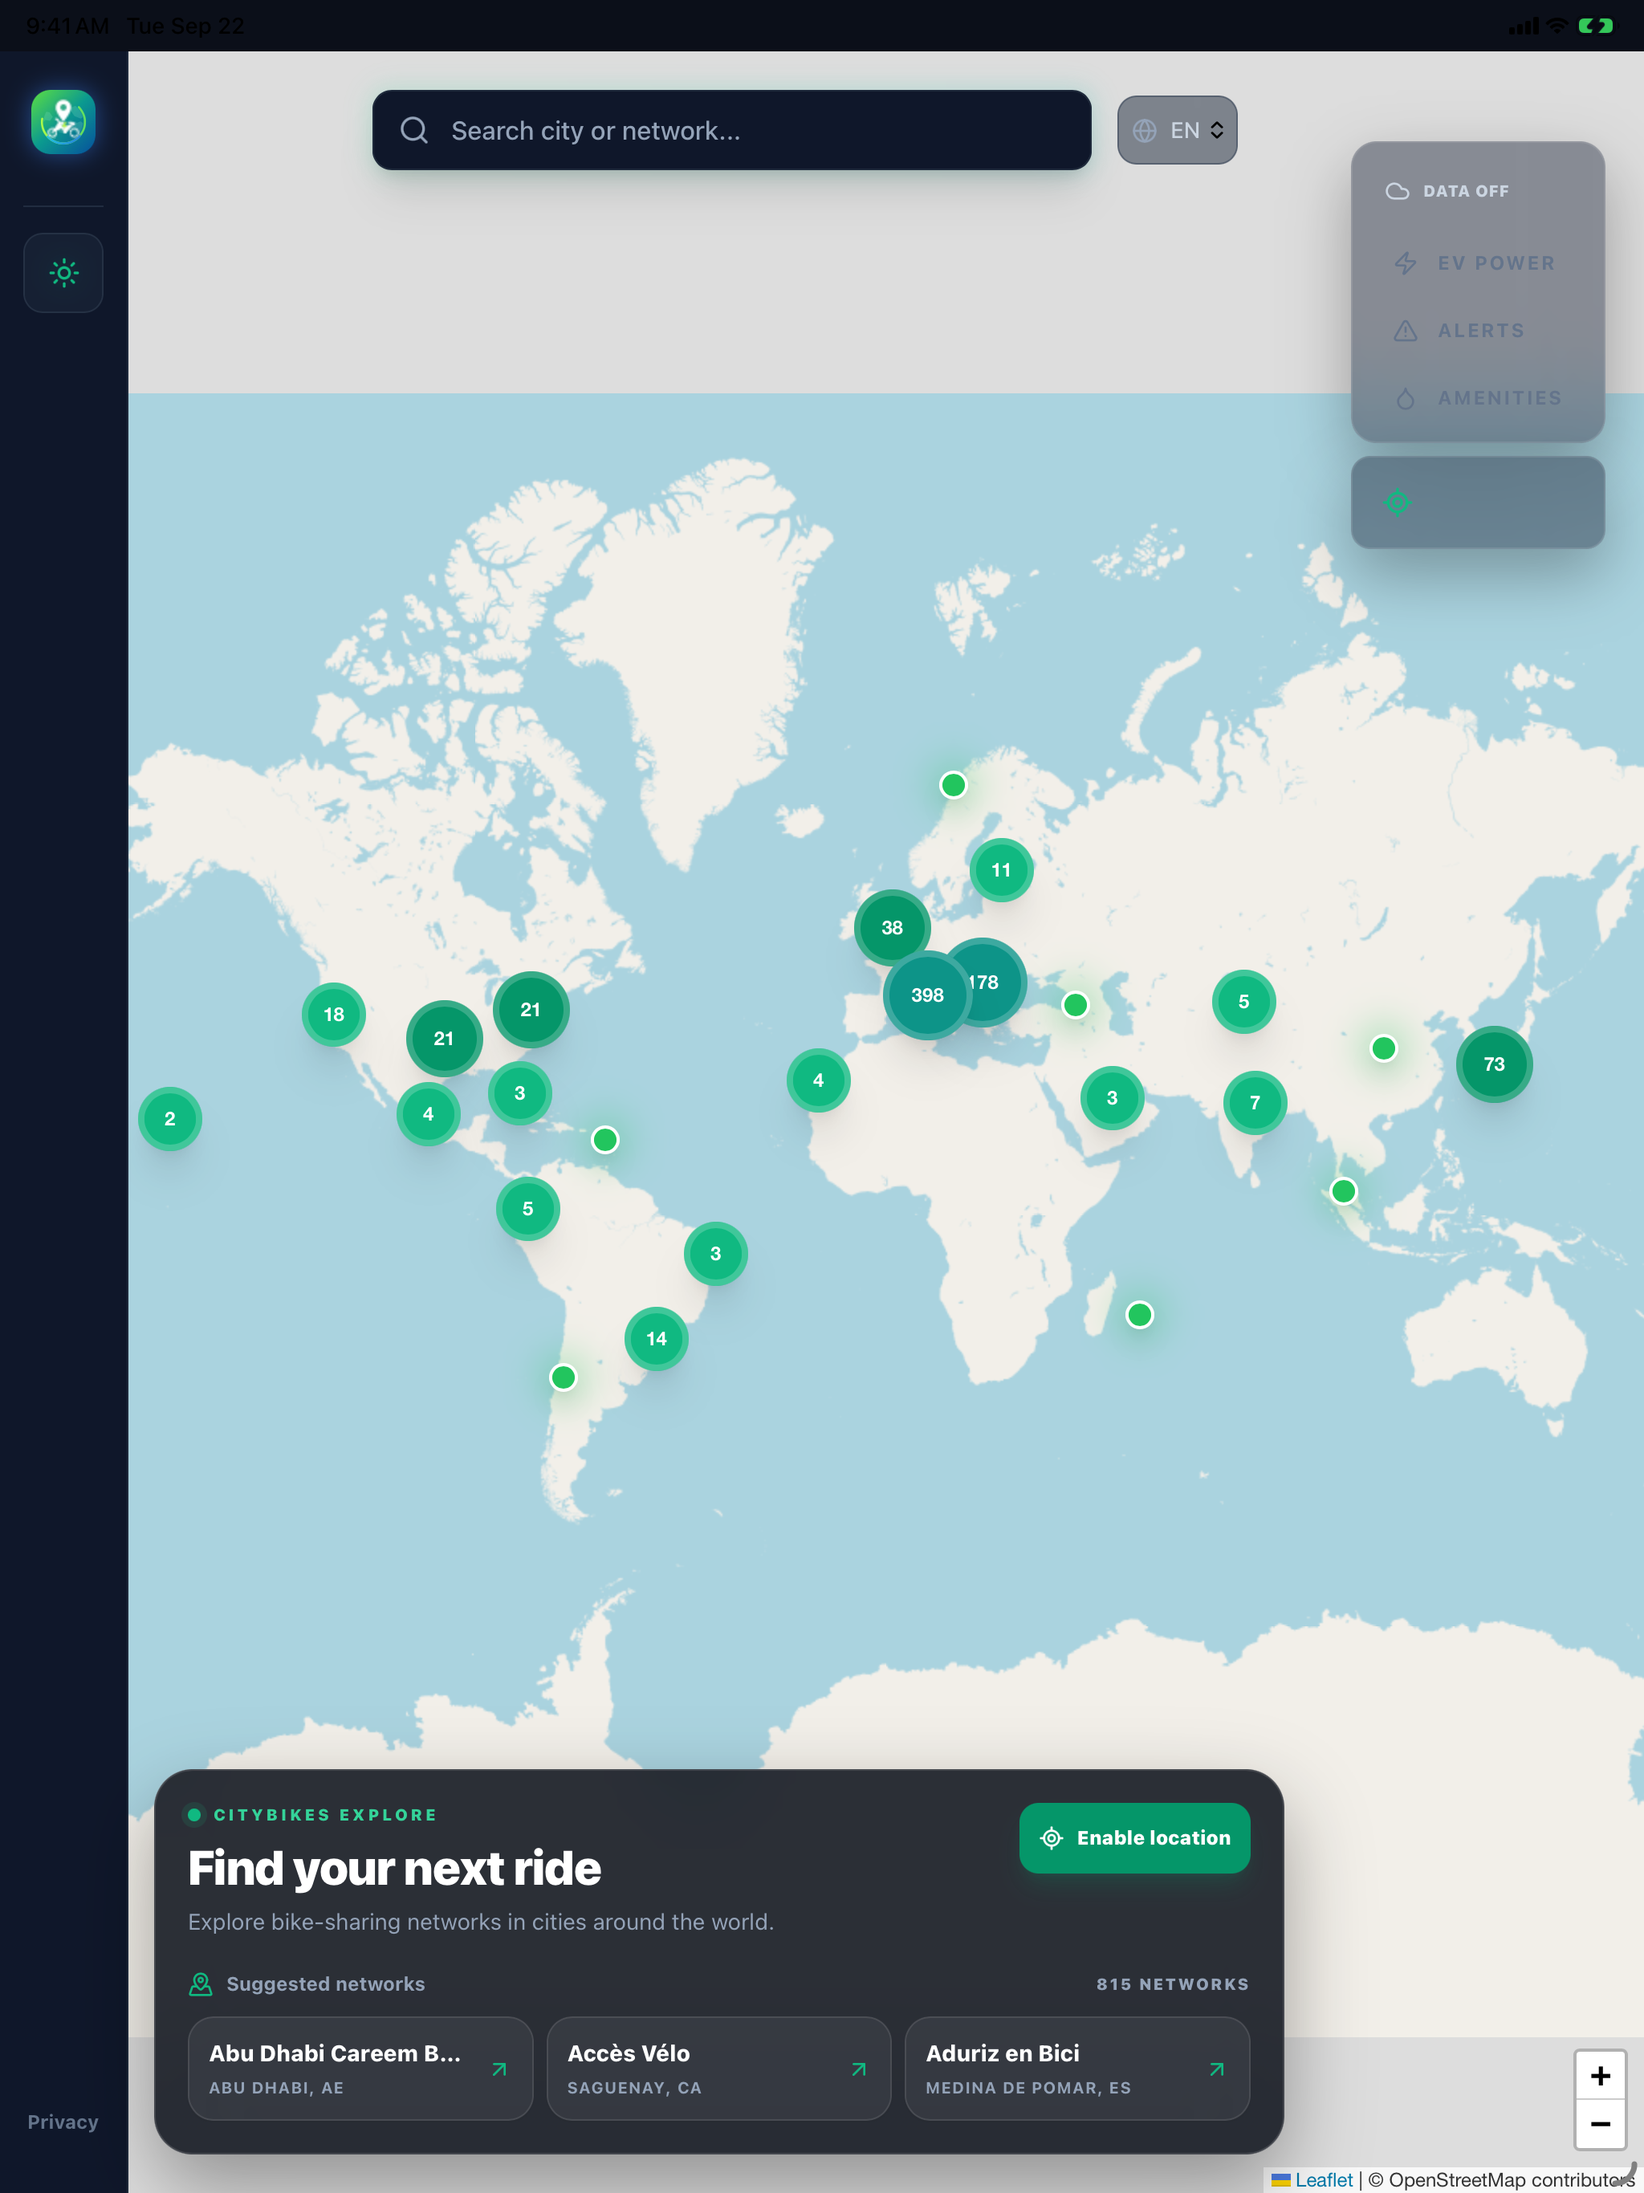
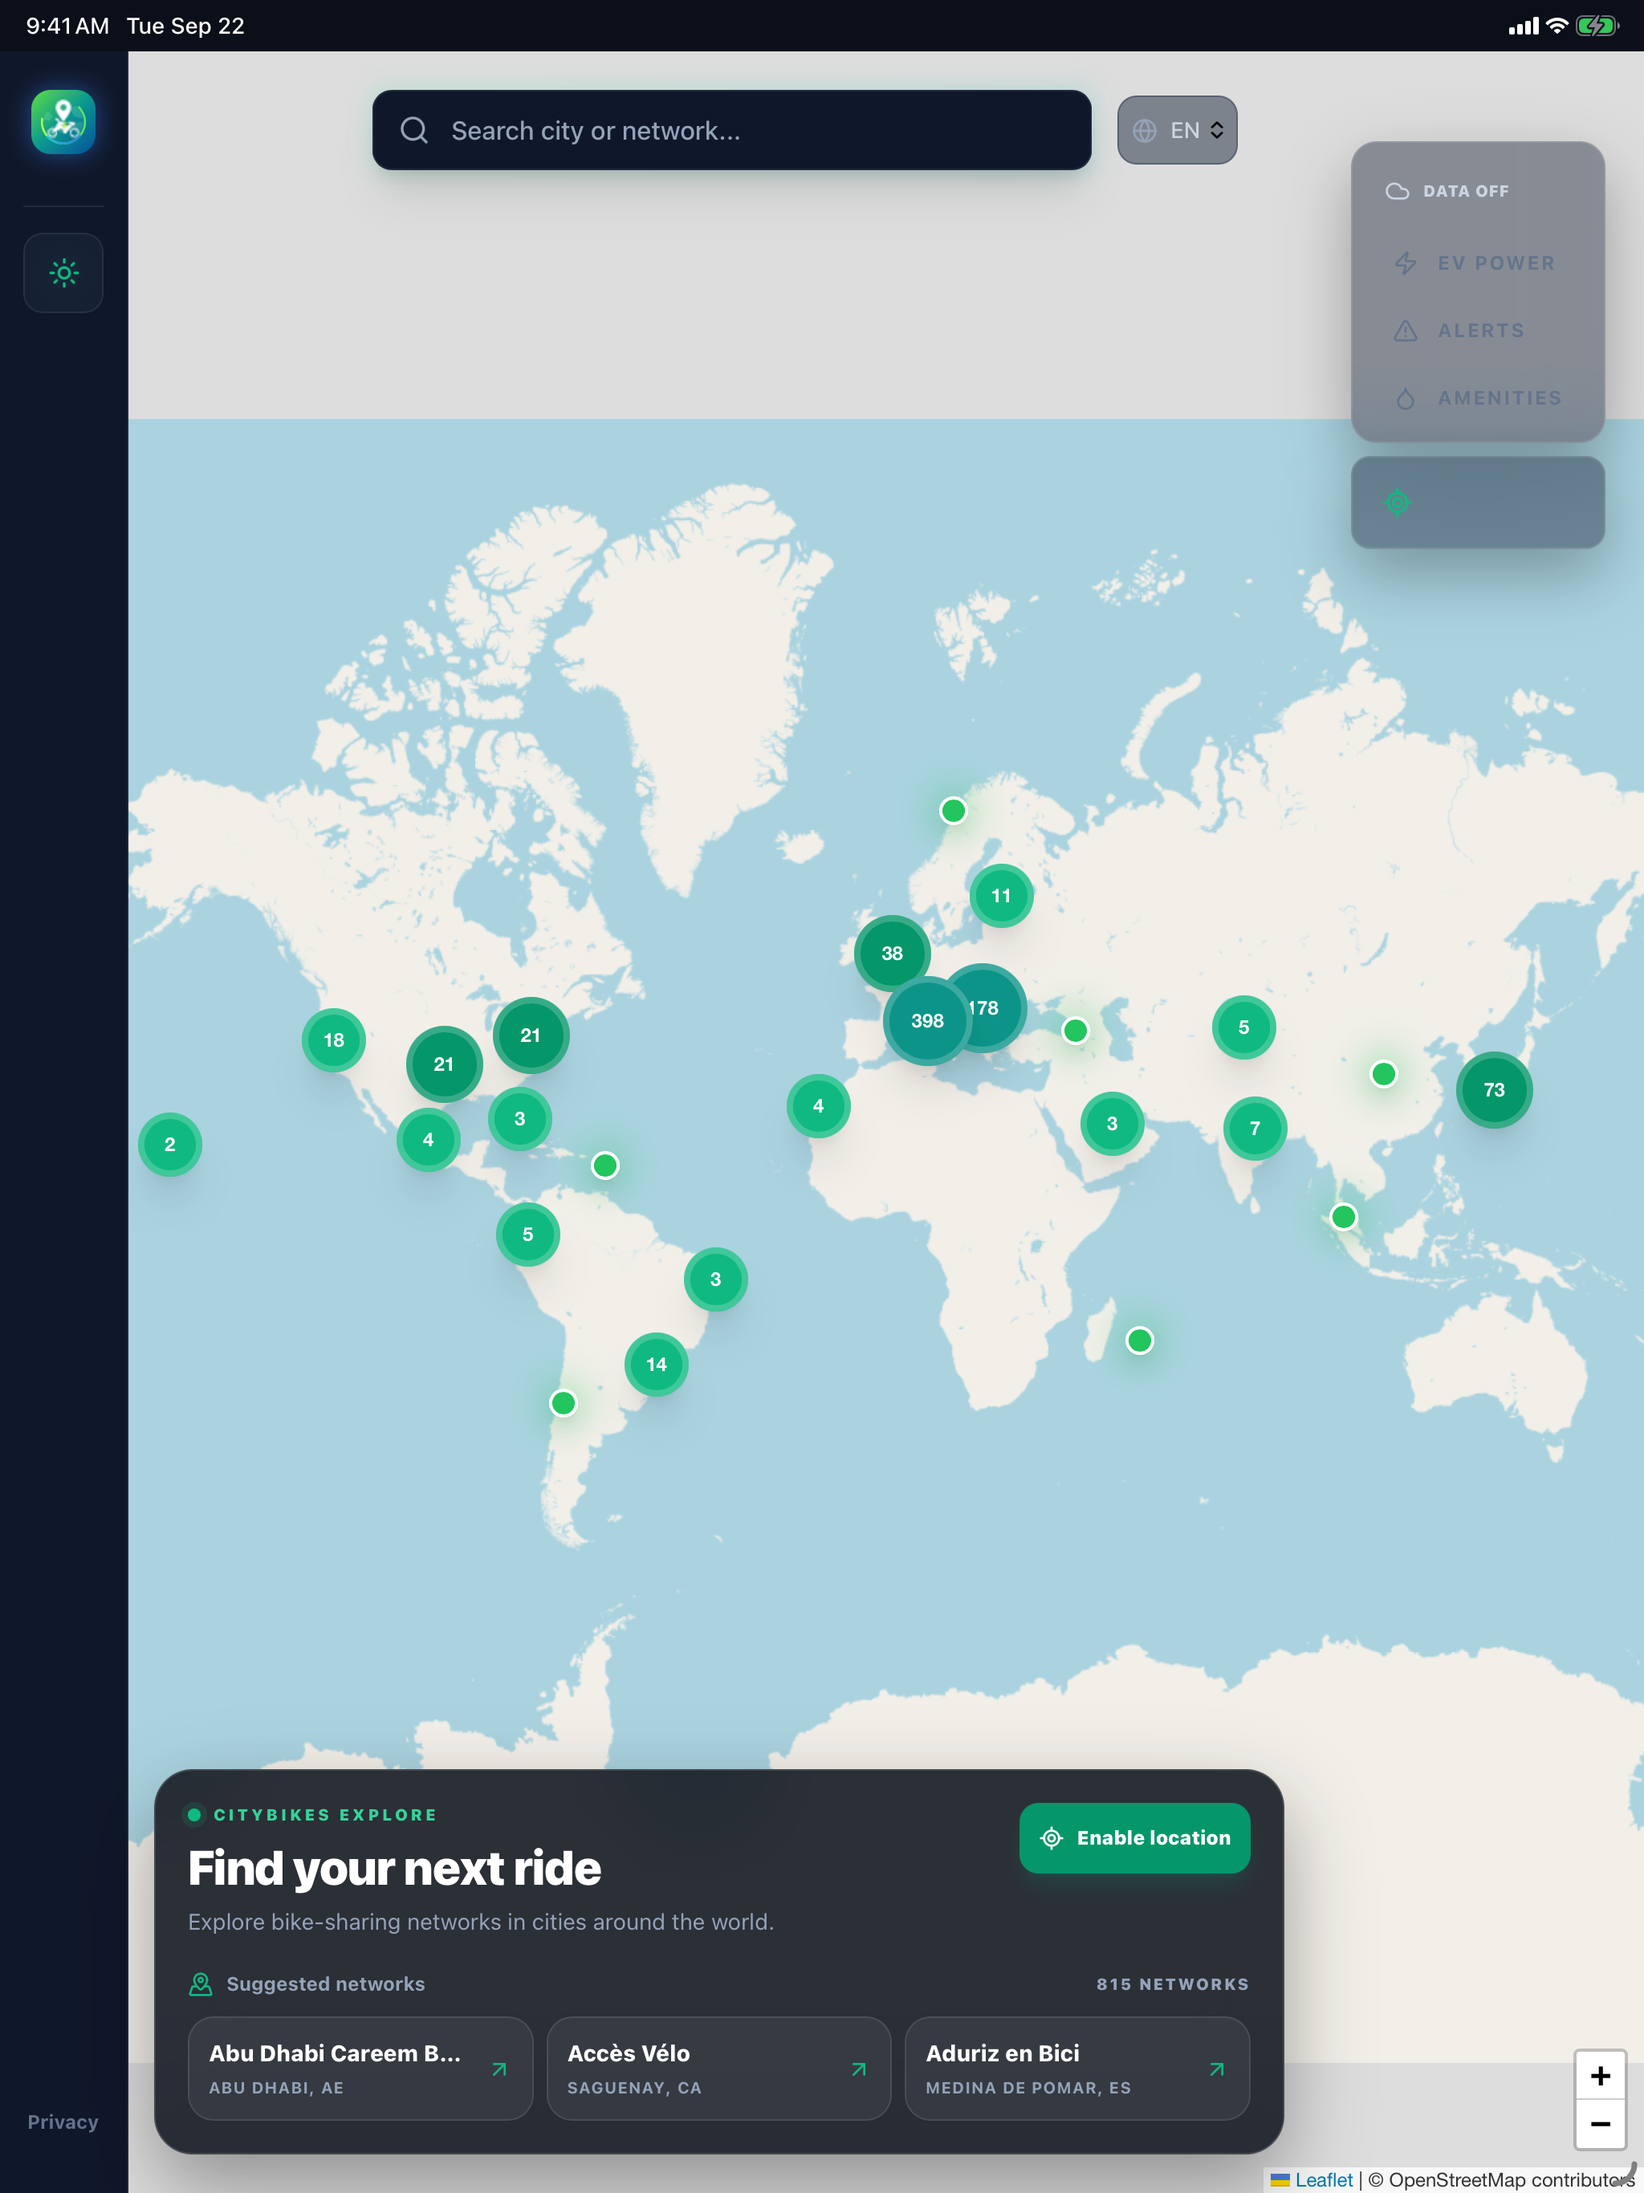
Refresh screenshots with corrected status bars

diff --git a/store-kit/APP_STORE.md b/store-kit/APP_STORE.md
@@ -93,7 +93,7 @@ Pasta: `store-kit/screenshots/`
   - `02-map.png`
   - `03-map-dark.png`
 
-**Ordem recomendada App Store:** landing → mapa claro → mapa escuro. As capturas são **reais de iPhone/iPad via simctl** (GitHub Actions, iOS 26.5, iPhone 17 / iPad Air 13" M4), capturadas em `CityBikes iOS Screenshots` workflow (run 35675216638). Não são mockups.
+**Ordem recomendada App Store:** landing → mapa claro → mapa escuro. As capturas são **reais de iPhone/iPad via simctl** (GitHub Actions, iOS 26.5, iPhone 17 / iPad Air 13" M4), capturadas em `CityBikes iOS Screenshots` workflow (run 35676433885). Não são mockups.
 
 ## Prints Android reais
 

diff --git a/store-kit/audit/QUALITY-REPORT.md b/store-kit/audit/QUALITY-REPORT.md
@@ -2,7 +2,7 @@
 
 ## Estado aprovado
 
-- Run validado: `35675216638`.
+- Run validado: `35676433885`.
 - Resolução iPhone: `1206x2622`, captura nativa do iPhone 17.
 - Resolução iPad: `2048x2732`, captura nativa do iPad Air 13-inch (M4).
 - Formato: PNG RGBA, captura nativa do simulador.
